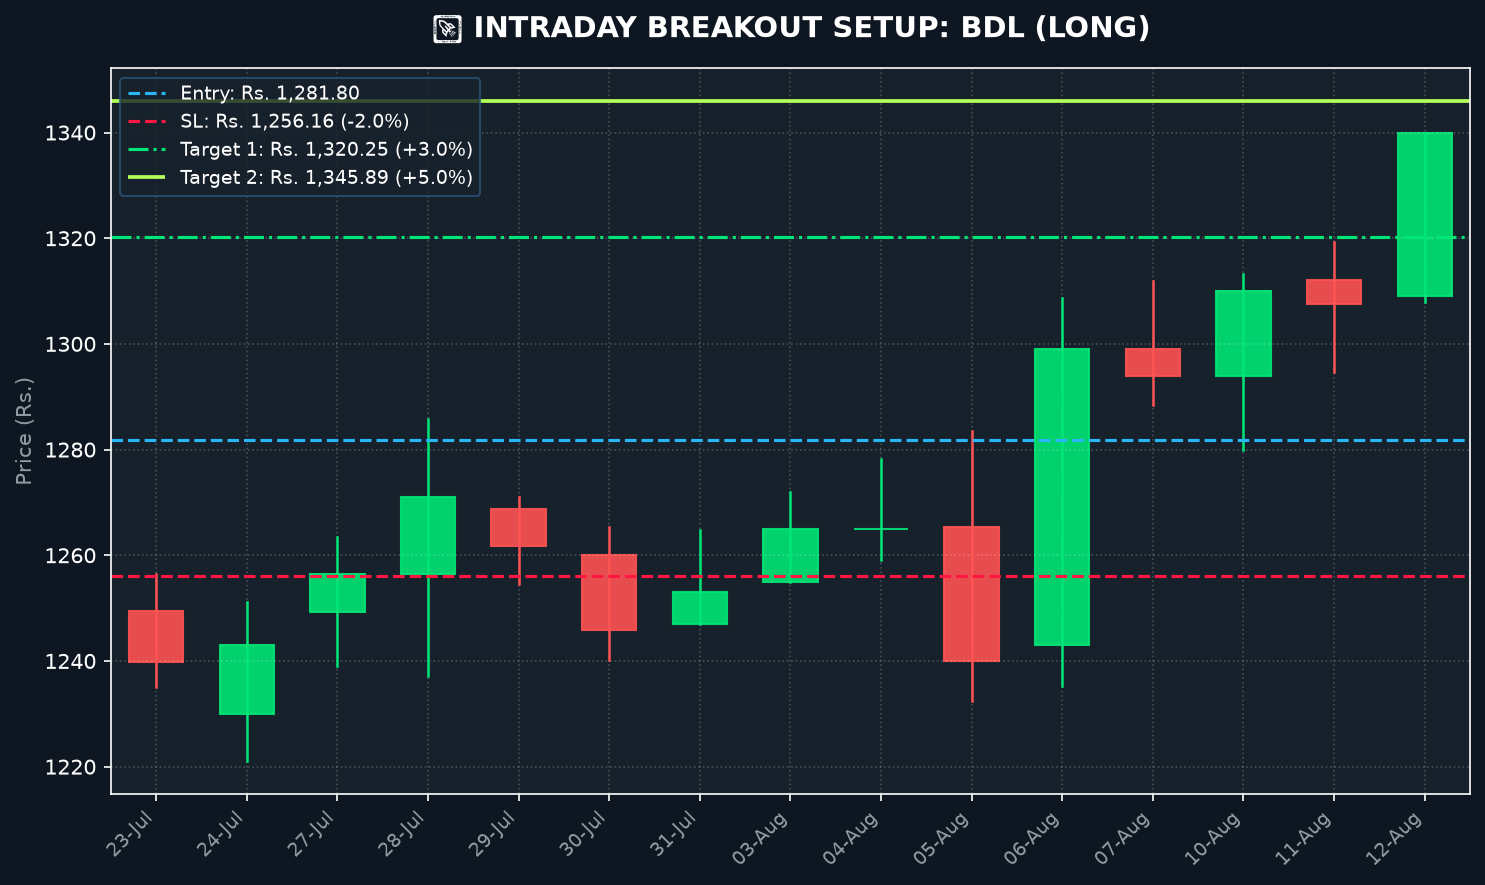
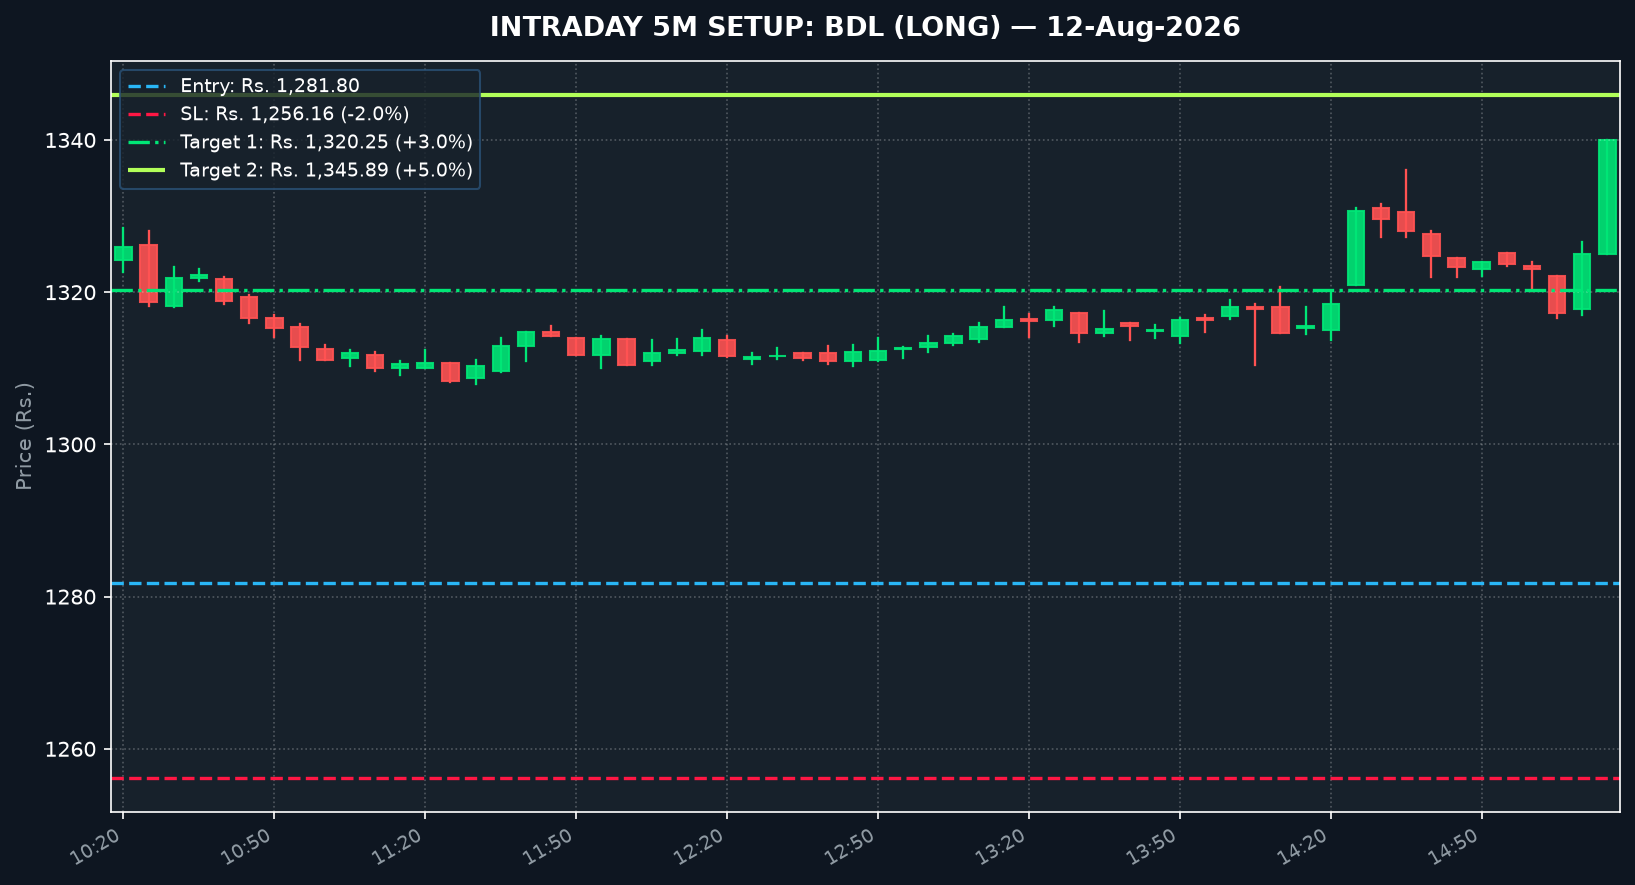
Upgrade chart generator to render high-precision 5m intraday candlestick charts with time axis

diff --git a/chart_generator.py b/chart_generator.py
@@ -1,10 +1,10 @@
 """
-Candlestick Chart Generator with Entry, SL, Target 1, Target 2 Levels overlay.
-Uses matplotlib & yfinance to render high-definition dark mode candlestick charts.
+High-Precision 5-Minute Intraday Candlestick Chart Generator
+Draws exact intraday 5m candles with Entry, SL, Target 1, and Target 2 levels.
 """
 import os
 import matplotlib
-matplotlib.use('Agg')  # Non-interactive backend for server/bot
+matplotlib.use('Agg')
 import matplotlib.pyplot as plt
 import matplotlib.dates as mdates
 import pandas as pd
@@ -12,8 +12,7 @@ import yfinance as yf
 
 def generate_candlestick_chart(pick: dict) -> str:
     """
-    Generates a dark-mode candlestick chart with Entry, SL, T1, and T2 price levels drawn.
-    Returns the file path of the generated PNG chart.
+    Generates a high-precision 5-minute intraday dark-mode candlestick chart.
     """
     symbol = pick.get('symbol', 'STOCK')
     ticker = pick.get('ticker', f"{symbol}.NS")
@@ -22,14 +21,22 @@ def generate_candlestick_chart(pick: dict) -> str:
     target1 = pick.get('target1', 0.0)
     target2 = pick.get('target2', 0.0)
 
-    # Fetch 15-day daily candle data for visual context
+    # Fetch recent 5-minute intraday candles
     try:
-        df = yf.download(ticker, period="20d", interval="1d", progress=False)
+        df = yf.download(ticker, period="3d", interval="5m", progress=False)
         if isinstance(df.columns, pd.MultiIndex):
             df.columns = df.columns.get_level_values(0)
-        df = df.dropna(subset=['Open', 'High', 'Low', 'Close']).tail(15)
+        df = df.dropna(subset=['Open', 'High', 'Low', 'Close'])
+        
+        # Filter for the most recent trading session (last 75 candles = ~1 trading day)
+        if not df.empty:
+            df.index = df.index.tz_localize(None) if df.index.tz is not None else df.index
+            last_date = df.index.date[-1]
+            df = df[df.index.date == last_date]
+            if len(df) > 60:
+                df = df.tail(60)
     except Exception as e:
-        print(f"Error downloading chart data for {symbol}: {e}")
+        print(f"Error downloading 5m intraday chart data for {symbol}: {e}")
         return ""
 
     if df.empty:
@@ -37,70 +44,73 @@ def generate_candlestick_chart(pick: dict) -> str:
 
     # Create Dark Mode Plot
     plt.style.use('dark_background')
-    fig, ax = plt.subplots(figsize=(10, 6), dpi=150)
+    fig, ax = plt.subplots(figsize=(11, 6), dpi=150)
     fig.patch.set_facecolor('#0E1621')
     ax.set_facecolor('#17212B')
 
-    # Draw Candlesticks
-    df['DateNum'] = mdates.date2num(df.index)
-    width = 0.6
+    width = 0.65
 
+    # Draw 5m Candlesticks
     for i, (dt, row) in enumerate(df.iterrows()):
         color = '#00E676' if row['Close'] >= row['Open'] else '#FF5252'
         # Wick
-        ax.plot([i, i], [row['Low'], row['High']], color=color, linewidth=1.2)
+        ax.plot([i, i], [row['Low'], row['High']], color=color, linewidth=1.1)
         # Body
         body_bottom = min(row['Open'], row['Close'])
-        body_height = max(abs(row['Close'] - row['Open']), 0.01)
+        body_height = max(abs(row['Close'] - row['Open']), 0.05)
         rect = plt.Rectangle((i - width/2, body_bottom), width, body_height, facecolor=color, edgecolor=color, alpha=0.9)
         ax.add_patch(rect)
 
-    # X-axis Date Labels
-    date_labels = [d.strftime('%d-%b') for d in df.index]
-    ax.set_xticks(range(len(df)))
-    ax.set_xticklabels(date_labels, rotation=45, ha='right', fontsize=9, color='#8E99A2')
+    # X-axis 5m Time Labels
+    step = max(1, len(df) // 10)
+    indices = list(range(0, len(df), step))
+    time_labels = [df.index[i].strftime('%H:%M') for i in indices]
+    ax.set_xticks(indices)
+    ax.set_xticklabels(time_labels, rotation=30, ha='right', fontsize=9, color='#8E99A2')
 
     # Add Horizontal Level Lines
     x_min, x_max = -0.5, len(df) - 0.5
     ax.set_xlim(x_min, x_max)
 
     # Entry Line (Blue)
-    ax.hlines(y=entry, xmin=x_min, xmax=x_max, colors='#29B6F6', linestyles='--', linewidth=1.5, label=f'Entry: Rs. {entry:,.2f}')
+    ax.hlines(y=entry, xmin=x_min, xmax=x_max, colors='#29B6F6', linestyles='--', linewidth=1.6, label=f'Entry: Rs. {entry:,.2f}')
     # SL Line (Red)
-    ax.hlines(y=sl, xmin=x_min, xmax=x_max, colors='#FF1744', linestyles='--', linewidth=1.5, label=f'SL: Rs. {sl:,.2f} (-2.0%)')
+    ax.hlines(y=sl, xmin=x_min, xmax=x_max, colors='#FF1744', linestyles='--', linewidth=1.6, label=f'SL: Rs. {sl:,.2f} (-2.0%)')
     # Target 1 Line (Light Green)
-    ax.hlines(y=target1, xmin=x_min, xmax=x_max, colors='#00E676', linestyles='-.', linewidth=1.5, label=f'Target 1: Rs. {target1:,.2f} (+3.0%)')
+    ax.hlines(y=target1, xmin=x_min, xmax=x_max, colors='#00E676', linestyles='-.', linewidth=1.6, label=f'Target 1: Rs. {target1:,.2f} (+3.0%)')
     # Target 2 Line (Bright Green)
-    ax.hlines(y=target2, xmin=x_min, xmax=x_max, colors='#B2FF59', linestyles='-', linewidth=1.8, label=f'Target 2: Rs. {target2:,.2f} (+5.0%)')
+    ax.hlines(y=target2, xmin=x_min, xmax=x_max, colors='#B2FF59', linestyles='-', linewidth=2.0, label=f'Target 2: Rs. {target2:,.2f} (+5.0%)')
 
-    # Titles & Labels
-    ax.set_title(f"🚀 INTRADAY BREAKOUT SETUP: {symbol} (LONG)", fontsize=14, fontweight='bold', color='#FFFFFF', pad=15)
+    # Title & Axis Labels
+    trade_date_str = df.index[-1].strftime('%d-%b-%Y')
+    ax.set_title(f"INTRADAY 5M SETUP: {symbol} (LONG) — {trade_date_str}", fontsize=13, fontweight='bold', color='#FFFFFF', pad=12)
     ax.set_ylabel("Price (Rs.)", fontsize=10, color='#8E99A2')
-    ax.grid(True, linestyle=':', alpha=0.2, color='#FFFFFF')
+    ax.grid(True, linestyle=':', alpha=0.25, color='#FFFFFF')
 
-    # Price Level Callout Annotations on Right Edge
+    # Right Axis Annotations
     right_x = len(df) - 0.2
-    ax.annotate(f"  T2: Rs. {target2:,.2f}", xy=(right_x, target2), fontsize=9, fontweight='bold', color='#B2FF59', verticalalignment='center')
-    ax.annotate(f"  T1: Rs. {target1:,.2f}", xy=(right_x, target1), fontsize=9, fontweight='bold', color='#00E676', verticalalignment='center')
-    ax.annotate(f"  ENTRY: Rs. {entry:,.2f}", xy=(right_x, entry), fontsize=9, fontweight='bold', color='#29B6F6', verticalalignment='center')
-    ax.annotate(f"  SL: Rs. {sl:,.2f}", xy=(right_x, sl), fontsize=9, fontweight='bold', color='#FF1744', verticalalignment='center')
+    ax.annotate(f" T2: Rs. {target2:,.2f}", xy=(right_x, target2), fontsize=9, fontweight='bold', color='#B2FF59', verticalalignment='center')
+    ax.annotate(f" T1: Rs. {target1:,.2f}", xy=(right_x, target1), fontsize=9, fontweight='bold', color='#00E676', verticalalignment='center')
+    ax.annotate(f" ENTRY: Rs. {entry:,.2f}", xy=(right_x, entry), fontsize=9, fontweight='bold', color='#29B6F6', verticalalignment='center')
+    ax.annotate(f" SL: Rs. {sl:,.2f}", xy=(right_x, sl), fontsize=9, fontweight='bold', color='#FF1744', verticalalignment='center')
 
     ax.legend(loc='upper left', frameon=True, facecolor='#17212B', edgecolor='#2B5278', fontsize=9)
 
     plt.tight_layout()
 
-    # Save to disk
+    # Save PNG image
     os.makedirs('charts', exist_ok=True)
     chart_file = os.path.join('charts', f"chart_{symbol}.png")
     plt.savefig(chart_file, facecolor=fig.get_facecolor(), bbox_inches='tight')
     plt.close()
 
-    print(f"Chart generated successfully: {chart_file}")
+    print(f"High-precision 5m intraday chart generated: {chart_file}")
     return chart_file
 
 if __name__ == '__main__':
     sample_pick = {
         'symbol': 'BDL',
+        'ticker': 'BDL.NS',
         'entry': 1281.80,
         'sl': 1256.16,
         'target1': 1320.25,
